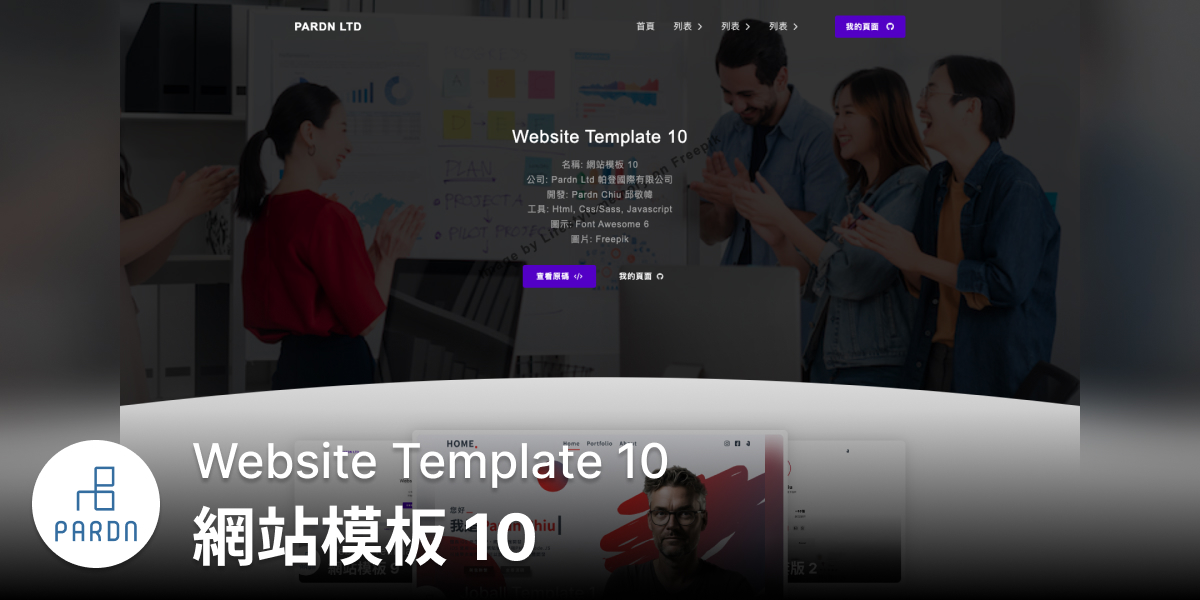
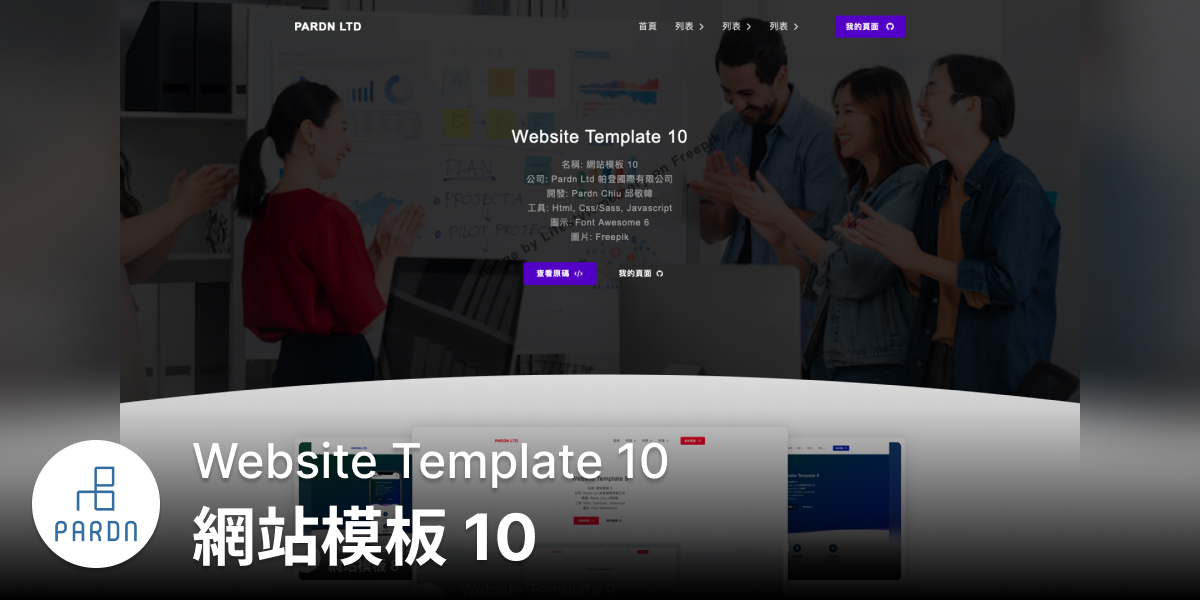
202303031515

diff --git a/index.html b/index.html
@@ -166,18 +166,18 @@
 		<div>
 			<ul>
 				<li class="left" unhover="1">
-					<a href="https://pardnchiu.github.io/website-template-9/" target="_blank">
-						<img src="https://pardnchiu.github.io/website-template-9/image/2-1.jpg" alt="">
+					<a href="https://pardnchiu.github.io/website-template-8/" target="_blank">
+						<img src="https://pardnchiu.github.io/website-template-8/image/2-1.jpg" alt="">
 					</a>
 				</li>
 				<li class="right" unhover="1">
-					<a href="https://pardnchiu.github.io/joball-template-2/" target="_blank">
-						<img src="https://pardnchiu.github.io/joball-template-2/preview/2-1.png" alt="">
+					<a href="https://pardnchiu.github.io/website-template-7/" target="_blank">
+						<img src="https://pardnchiu.github.io/website-template-8/image/2-1.jpg" alt="">
 					</a>
 				</li>
 				<li class="center" unhover="1">
-					<a href="https://pardnchiu.github.io/joball-template-1/" target="_blank">
-						<img src="https://pardnchiu.github.io/joball-template-1/preview/2-1.png" alt="">
+					<a href="https://pardnchiu.github.io/website-template-9/" target="_blank">
+						<img src="https://pardnchiu.github.io/website-template-9/image/2-1.jpg" alt="">
 					</a>
 				</li>
 			</ul>
@@ -233,20 +233,6 @@
 		<div>
 			<ul>
 				<li>
-					<a href="https://pardnchiu.github.io/website-template-8/" target="_blank">
-						<img src="https://pardnchiu.github.io/website-template-8/image/2-1.jpg" alt="">
-					</a>
-					<div>
-						<div>
-							<h6>Website Template 8</h6>
-							<p>網站模板 8</p>
-							<a href="https://pardnchiu.github.io/website-template-8/" targe="_blank">
-								查看內容<i class="fa-brands fa-github right"></i>
-							</a>
-						</div>
-					</div>
-				</li>
-				<li>
 					<a href="https://pardnchiu.github.io/website-template-7/" target="_blank">
 						<img src="https://pardnchiu.github.io/website-template-7/image/2-1.jpg" alt="">
 					</a>
@@ -268,7 +254,21 @@
 						<div>
 							<h6>Instagram Template</h6>
 							<p>Instagram 仿製</p>
-							<a href="https://pardnchiu.github.io/instagram-template-202210" targe="_blank">
+							<a href="https://pardnchiu.github.io/instagram-template-202210/" targe="_blank">
+								查看內容<i class="fa-brands fa-github right"></i>
+							</a>
+						</div>
+					</div>
+				</li>
+				<li>
+					<a href="https://pardnchiu.github.io/markdown-editor/" target="_blank">
+						<img src="https://pardnchiu.github.io/markdown-editor/preview/2-1.png" alt="">
+					</a>
+					<div>
+						<div>
+							<h6>Markdown Editor</h6>
+							<p>Markdown 編輯器</p>
+							<a href="https://pardnchiu.github.io/markdown-editor/" targe="_blank">
 								查看內容<i class="fa-brands fa-github right"></i>
 							</a>
 						</div>
